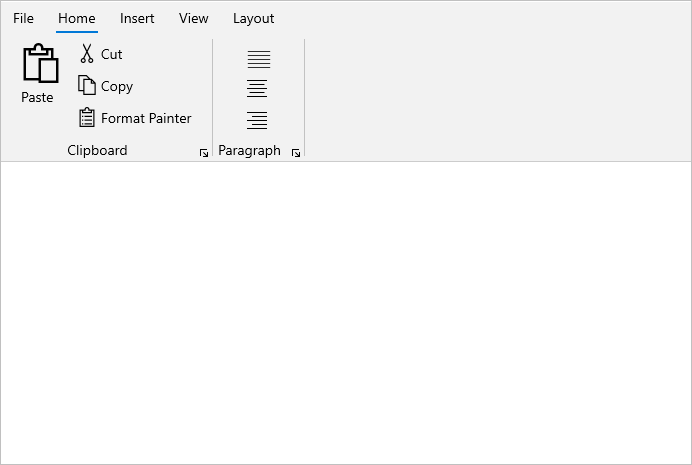
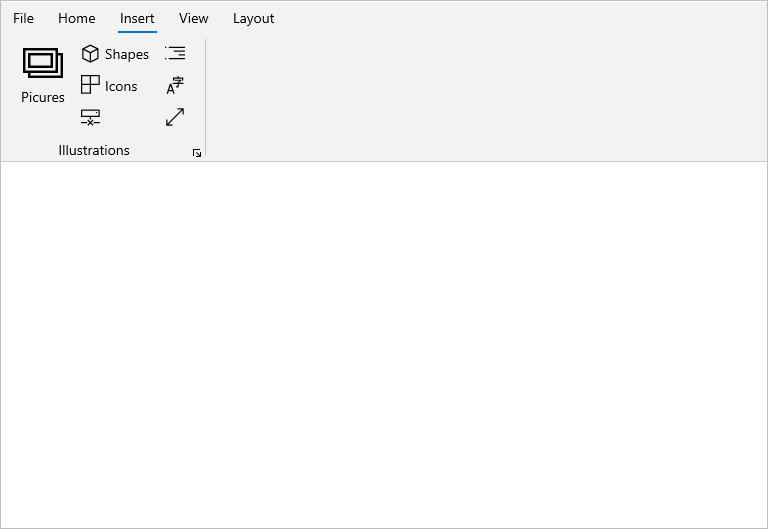
WINUI-447-Review concerns addressed.

diff --git a/winui/Ribbon/Getting-Started.md b/winui/Ribbon/Getting-Started.md
@@ -159,81 +159,86 @@ The [RibbonButton](https://help.syncfusion.com/cr/winui/Syncfusion.UI.Xaml.Ribbo
 
 {% tabs %}
 {% highlight xaml %}
-<ribbon:SfRibbon x:Name="sfRibbon">
+<ribbon:SfRibbon x:Name="sfRibbon"
+                 SelectedIndex="1">
     <ribbon:SfRibbon.Tabs>
-        <ribbon:RibbonTab Header="Home">
-            <ribbon:RibbonGroup Header="Clipboard">
-                <ribbon:RibbonButton Icon="Paste"
-                                          Content="Paste"
-                                          SizeMode="Large" />
-                <ribbon:RibbonButton Icon="Cut"
-                                     Content="Cut"
-                                     SizeMode="Normal" />
-                <ribbon:RibbonButton Icon="Copy"
-                                     Content="Copy"
-                                     SizeMode="Normal" />
-                <ribbon:RibbonButton Content="Format Painter"
-                                     SizeMode="Normal">
+        <ribbon:RibbonTab Header="Home" />
+        <ribbon:RibbonTab Header="Insert">
+            <ribbon:RibbonGroup Header="Illustrations">
+                <ribbon:RibbonButton Content="Pictures"
+                                     SizeMode="Large">
                     <ribbon:RibbonButton.Icon>
-                        <FontIcon FontFamily="Segoe MDL2 Assets"
-                                  Glyph="&#xF0E3;" />
+                        <SymbolIcon Symbol="Pictures" />
                     </ribbon:RibbonButton.Icon>
                 </ribbon:RibbonButton>
-            </ribbon:RibbonGroup>
-            <ribbon:RibbonGroup Header="Paragraph">
+                <ribbon:RibbonButton Content="Shapes"
+                                     SizeMode="Normal">
+                    <ribbon:RibbonButton.Icon>
+                        <FontIcon Glyph="&#xF158;" />
+                    </ribbon:RibbonButton.Icon>
+                </ribbon:RibbonButton>
+                <ribbon:RibbonButton Content="Icons"
+                                     SizeMode="Normal">
+                    <ribbon:RibbonButton.Icon>
+                        <FontIcon Glyph="&#xECAA;" />
+                    </ribbon:RibbonButton.Icon>
+                </ribbon:RibbonButton>
+                <ribbon:RibbonButton Icon="DisconnectDrive"
+                                     Content="3D Models"
+                                     SizeMode="Normal" />
                 <ribbon:RibbonButton SizeMode="Small">
                     <ribbon:RibbonButton.Icon>
-                        <BitmapIcon UriSource="ms-appx:///Justify.png" />
+                        <BitmapIcon UriSource="ms-appx:///Assets/Bookmarks.png" />
                     </ribbon:RibbonButton.Icon>
-                </ribbon:RibbonButton> 
-                <ribbon:RibbonButton SizeMode="Small"
-                                     Icon="AlignCenter" />
-                <ribbon:RibbonButton SizeMode="Small"
-                                     Icon="AlignRight">
-                    <SymbolIcon Symbol="AlignRight" />
-                </ribbon:RibbonButton> 
-            </ribbon:RibbonGroup>                   
-        </ribbon:RibbonTab>
-        <ribbon:RibbonTab Header="Insert" />
+                </ribbon:RibbonButton>
+                <ribbon:RibbonButton Icon="Character"
+                                     SizeMode="Small" />
+                <ribbon:RibbonButton Icon="FullScreen"
+                                     SizeMode="Small" />
+            </ribbon:RibbonGroup>
+        </ribbon:RibbonTab> 
         <ribbon:RibbonTab Header="View" />
         <ribbon:RibbonTab Header="Layout" />
     </ribbon:SfRibbon.Tabs>
 </ribbon:SfRibbon>
+
 {% endhighlight %}
 {% highlight c# %}
 SfRibbon sfRibbon = new SfRibbon();
+sfRibbon.SelectedIndex = 1;
+
 RibbonTab homeTab = new RibbonTab() { Header = "Home" };
 RibbonTab insertTab = new RibbonTab() { Header = "Insert" };
 RibbonTab viewTab = new RibbonTab() { Header = "View" };
 RibbonTab layoutTab = new RibbonTab() { Header = "Layout" };
 
-RibbonGroup clipboardGroup = new RibbonGroup() { Header = "Clipboard" };
-RibbonGroup paragraphGroup = new RibbonGroup() { Header = "Paragraph" };
+RibbonGroup illustrationsGroup = new RibbonGroup() { Header = "Illustrations" };
 
-RibbonButton pasteButton = new RibbonButton() { Content = "Paste", SizeMode = SizeMode.Large, Icon = new SymbolIcon(Symbol.Paste) };
-RibbonButton cutButton = new RibbonButton() { Content = "Cut", SizeMode = SizeMode.Normal, Icon = new SymbolIcon(Symbol.Cut) };
-RibbonButton copyButton = new RibbonButton() { Content = "Copy", SizeMode = SizeMode.Normal, Icon = new SymbolIcon(Symbol.Copy) };
-RibbonButton formatPainterButton = new RibbonButton() { Content = "FormatPainter", SizeMode = SizeMode.Normal, Icon = new FontIcon() { Glyph = "\xF0E3", FontFamily = new FontFamily("Segoe MDL2 Assets") } };
+RibbonButton pictureButton = new RibbonButton() { Content = "Picures" , SizeMode= SizeMode.Large, Icon = new SymbolIcon(Symbol.Pictures)};
 
-RibbonButton justifyButton = new RibbonButton() { SizeMode = SizeMode.Small, Icon = new BitmapIcon() { UriSource = new Uri(@"ms-appx:///Justify.png", UriKind.RelativeOrAbsolute) } };
-RibbonButton alignCenterButton = new RibbonButton() { SizeMode = SizeMode.Small, Icon = new SymbolIcon(Symbol.AlignCenter)  };
-RibbonButton alignRightButton = new RibbonButton() { SizeMode = SizeMode.Small, Icon = new SymbolIcon(Symbol.AlignRight) };
+RibbonButton shapesButton = new RibbonButton() { Content = "Shapes" , SizeMode= SizeMode.Normal, Icon = new FontIcon() { Glyph= "\xF158" } };
+RibbonButton iconsButton = new RibbonButton() { Content = "Icons" , SizeMode= SizeMode.Normal, Icon = new FontIcon() { Glyph= "\xECAA" } };            
+RibbonButton disconnectDriveButton = new RibbonButton() { Content = "3D Models" , SizeMode= SizeMode.Small, Icon = new SymbolIcon(Symbol.DisconnectDrive)  };
 
-clipboardGroup.Items.Add(pasteButton);
-clipboardGroup.Items.Add(cutButton);
-clipboardGroup.Items.Add(copyButton);
-clipboardGroup.Items.Add(formatPainterButton);
-paragraphGroup.Items.Add(justifyButton);
-paragraphGroup.Items.Add(alignCenterButton);
-paragraphGroup.Items.Add(alignRightButton);
+RibbonButton bookmarksButton = new RibbonButton() { SizeMode = SizeMode.Small, Icon = new BitmapIcon() { UriSource = new Uri("msappx:///Assets/Bookmarks.png") } };
+RibbonButton characterButton = new RibbonButton() {   SizeMode= SizeMode.Small, Icon = new SymbolIcon(Symbol.Character) };
+RibbonButton fullScreenButton = new RibbonButton() { SizeMode = SizeMode.Small, Icon = new SymbolIcon(Symbol.FullScreen) };
 
-homeTab.Items.Add(clipboardGroup);
-homeTab.Items.Add(paragraphGroup);
+illustrationsGroup.Items.Add(pictureButton);
+illustrationsGroup.Items.Add(shapesButton);
+illustrationsGroup.Items.Add(iconsButton);
+illustrationsGroup.Items.Add(disconnectDriveButton);
+illustrationsGroup.Items.Add(bookmarksButton);
+illustrationsGroup.Items.Add(characterButton);
+illustrationsGroup.Items.Add(fullScreenButton);
+
+insertTab.Items.Add(illustrationsGroup);
 
 sfRibbon.Tabs.Add(homeTab);
 sfRibbon.Tabs.Add(insertTab);
 sfRibbon.Tabs.Add(viewTab);
 sfRibbon.Tabs.Add(layoutTab);
+
 this.rootGrid.Children.Add(sfRibbon);
 {% endhighlight %}
 {% endtabs %}
